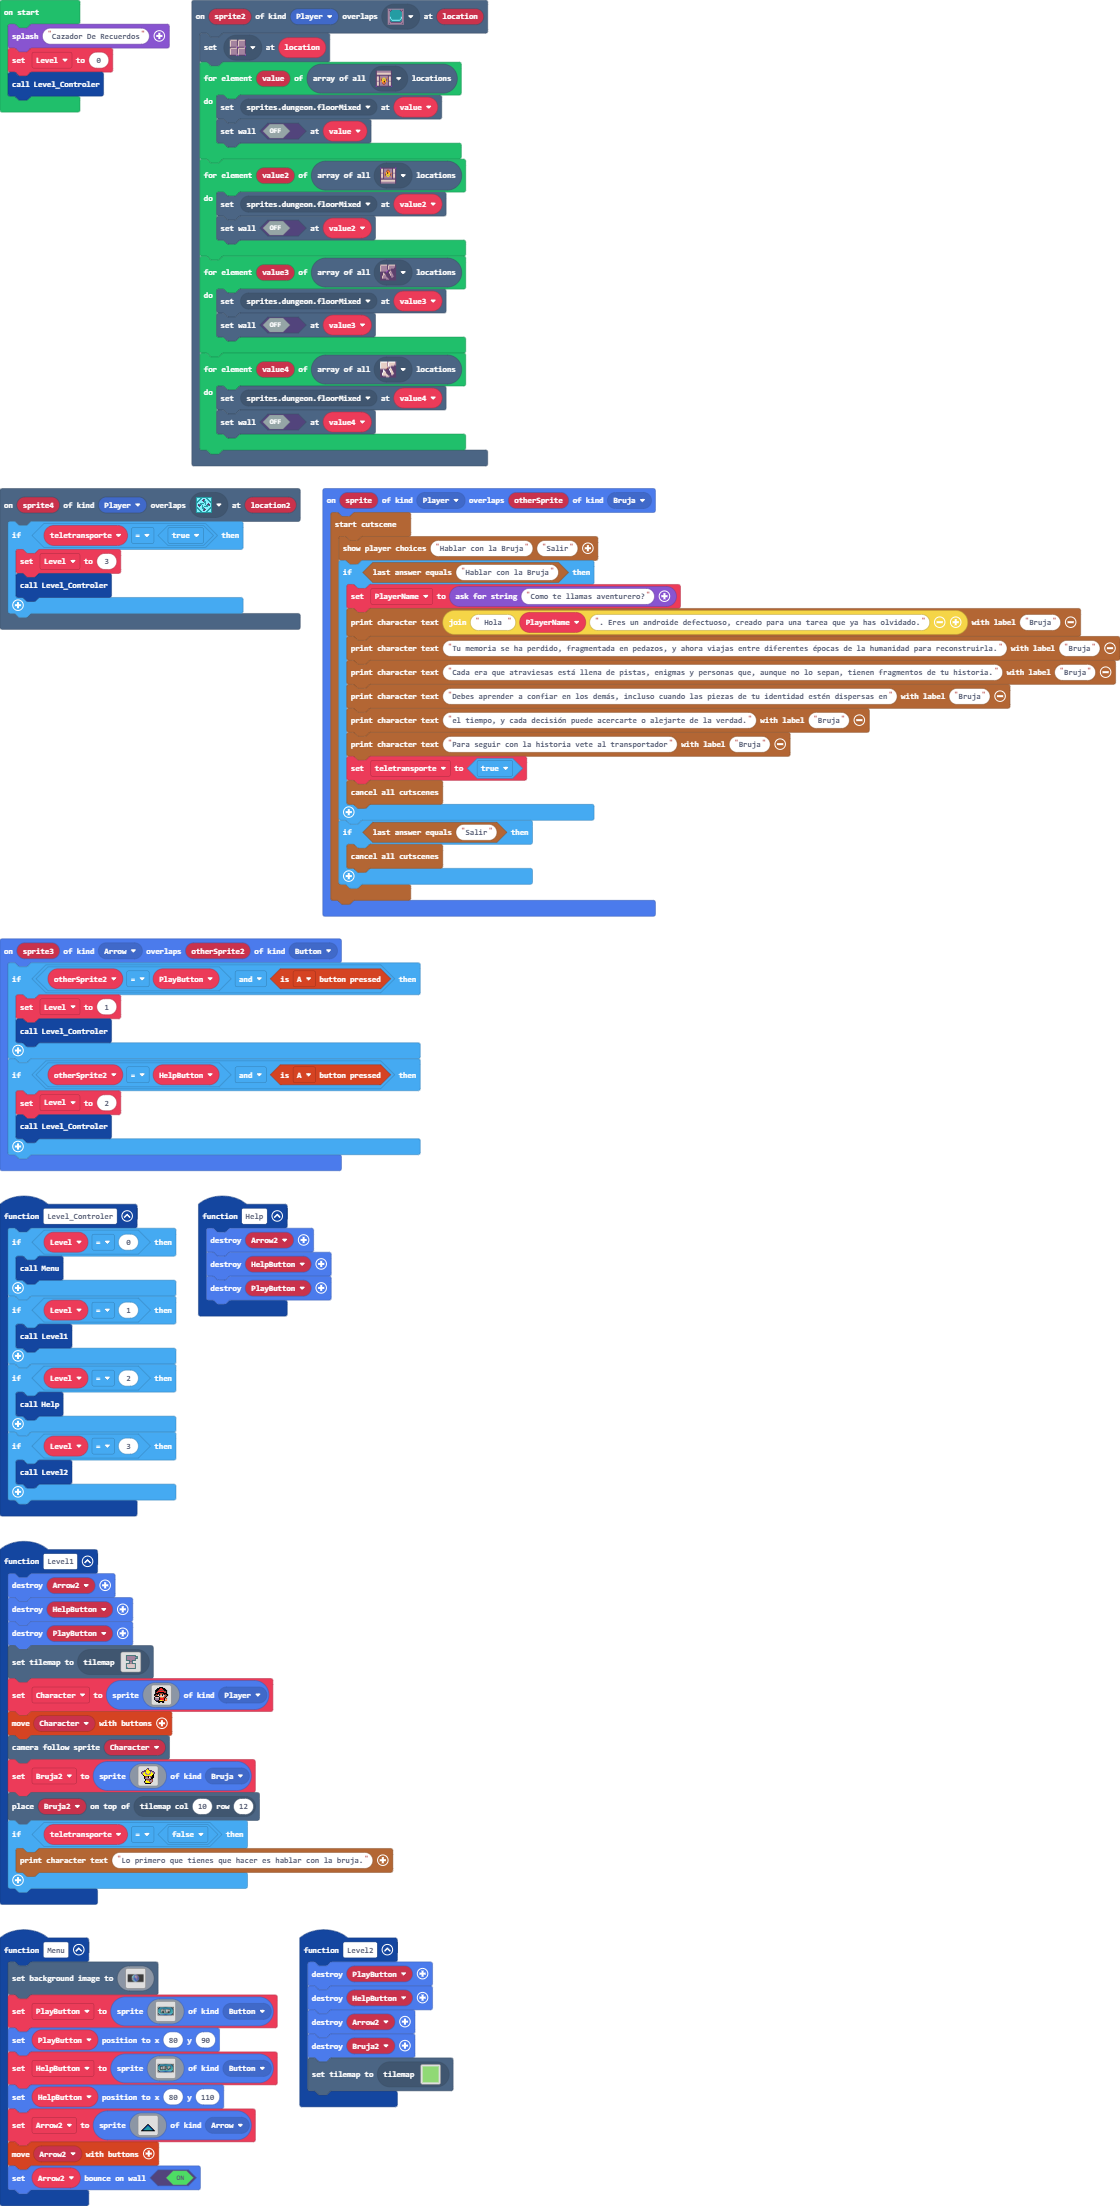
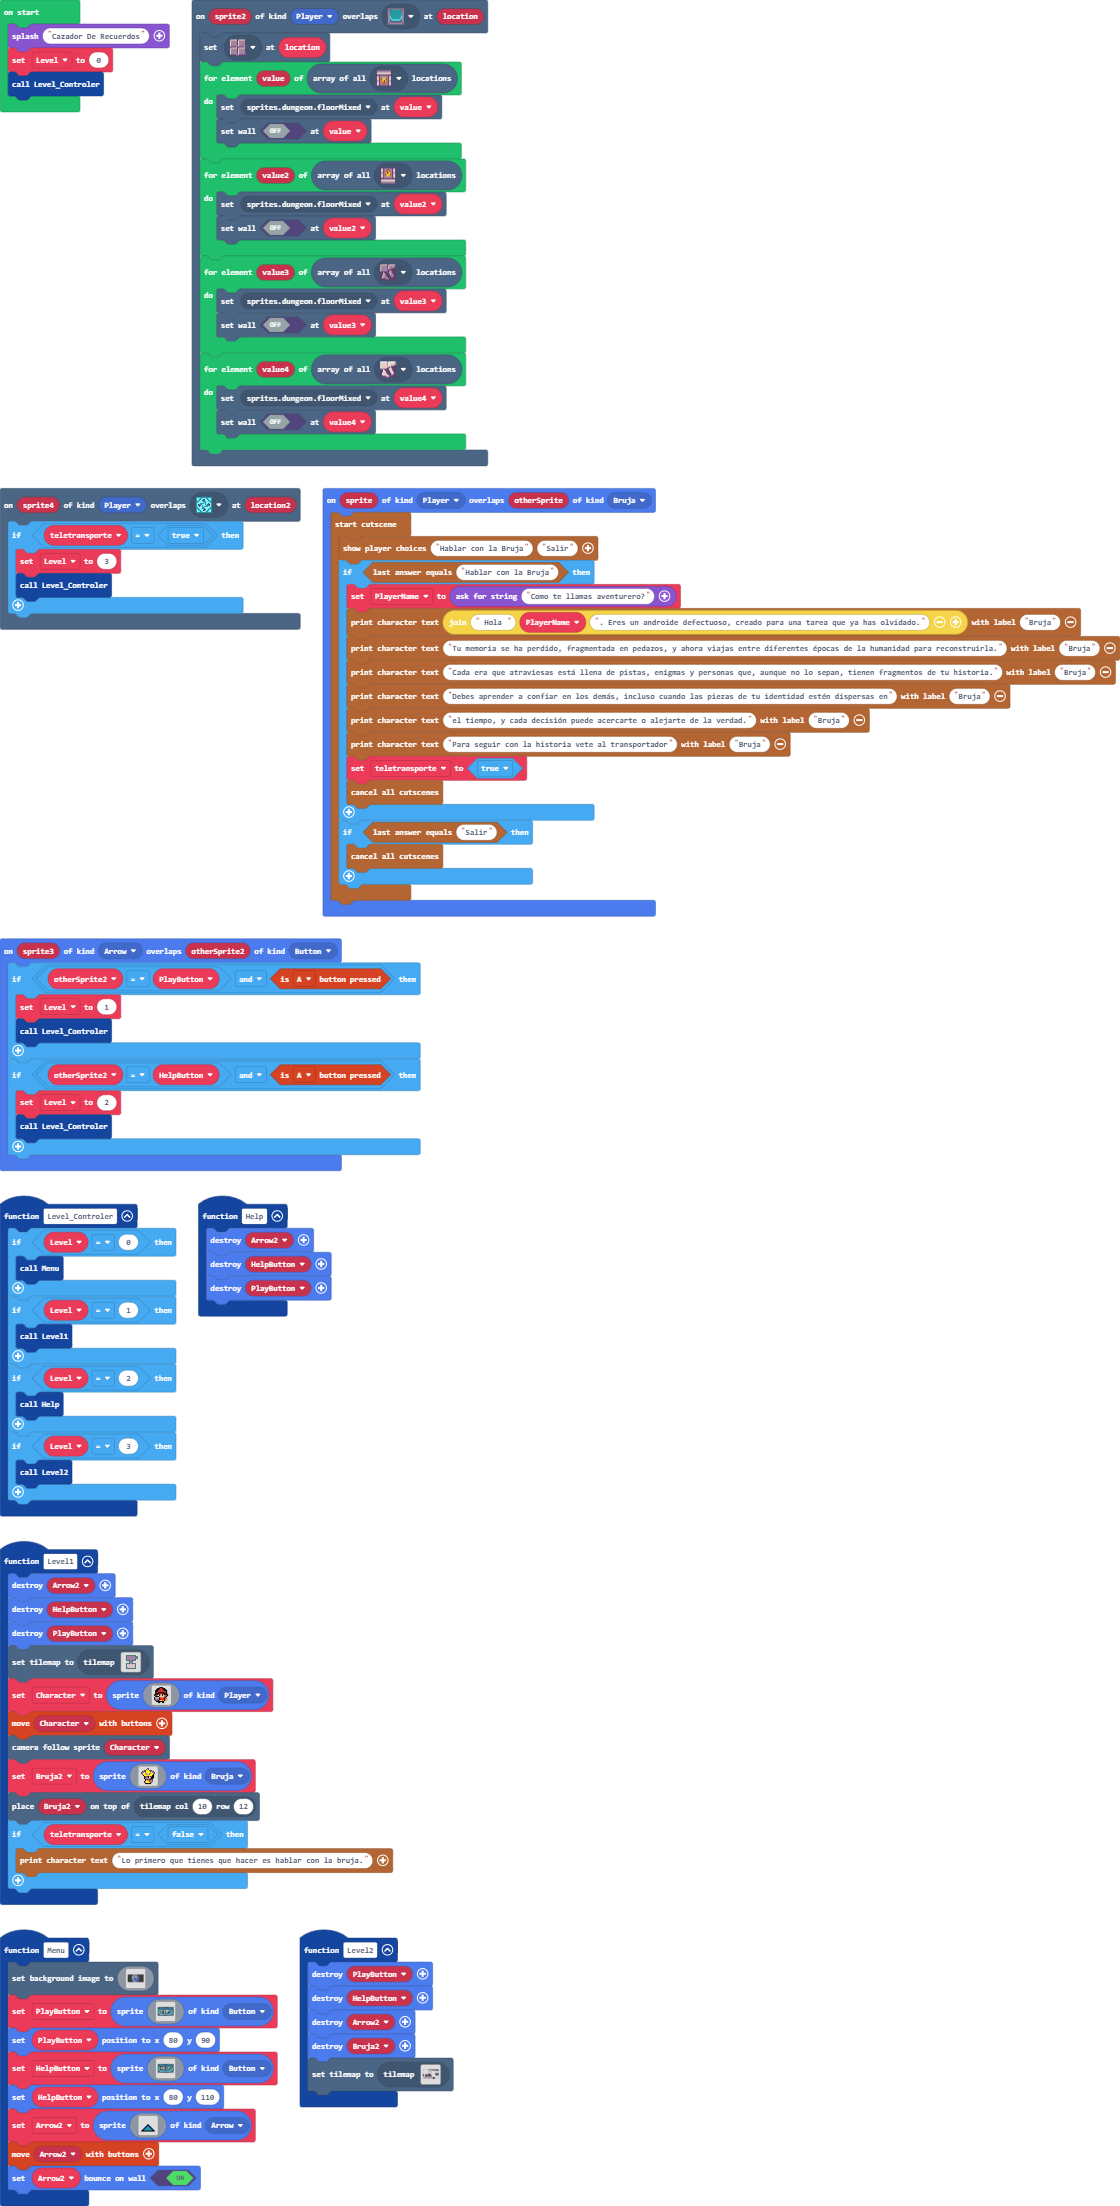
Commit

Changed region(s): [[0.2812, 0.2774, 0.3125, 0.4007], [0.375, 0.9248, 0.4062, 0.9556]]

diff --git a/tilemap.g.ts b/tilemap.g.ts
@@ -234,6 +234,44 @@ namespace myTiles {
 . . . . . . . . . . . . . . . . 
 . . . . . . . . . . . . . . . . 
 `, [myTiles.transparency16], TileScale.Sixteen);
+            case "level5":
+            case "level5":return tiles.createTilemap(hex`1000100000000000000000000000000000000000000000000000000000000000000000000000000000000000000000000000000000000000000000000000000000000000000000000000000000000000000000000000000000000000000000000000000000000000000000000000000000000000000000000000000000000000000000000000000000000000000000000000000000000000000000000000000000000000000000000000000000000000000000000000000000000000000000000000000000000000000000000000000000000000000000000000000000000000000000000000000000000000000000000000000000000000000000000000000000000000`, img`
+. . . . . . . . . . . . . . . . 
+. . . . . . . . . . . . . . . . 
+. . . . . . . . . . . . . . . . 
+. . . . . . . . . . . . . . . . 
+. . . . . . . . . . . . . . . . 
+. . . . . . . . . . . . . . . . 
+. . . . . . . . . . . . . . . . 
+. . . . . . . . . . . . . . . . 
+. . . . . . . . . . . . . . . . 
+. . . . . . . . . . . . . . . . 
+. . . . . . . . . . . . . . . . 
+. . . . . . . . . . . . . . . . 
+. . . . . . . . . . . . . . . . 
+. . . . . . . . . . . . . . . . 
+. . . . . . . . . . . . . . . . 
+. . . . . . . . . . . . . . . . 
+`, [myTiles.transparency16], TileScale.Sixteen);
+            case "level6":
+            case "level6":return tiles.createTilemap(hex`1000100000000000000000000000000000000000000000000000000000000000000000000000000000000000000000000000000000000000000000000000000000000000000000000000000000000000000000000000000000000000000000000000000000000000000000000000000000000000000000000000000000000000000000000000000000000000000000000000000000000000000000000000000000000000000000000000000000000000000000000000000000000000000000000000000000000000000000000000000000000000000000000000000000000000000000000000000000000000000000000000000000000000000000000000000000000000`, img`
+. . . . . . . . . . . . . . . . 
+. . . . . . . . . . . . . . . . 
+. . . . . . . . . . . . . . . . 
+. . . . . . . . . . . . . . . . 
+. . . . . . . . . . . . . . . . 
+. . . . . . . . . . . . . . . . 
+. . . . . . . . . . . . . . . . 
+. . . . . . . . . . . . . . . . 
+. . . . . . . . . . . . . . . . 
+. . . . . . . . . . . . . . . . 
+. . . . . . . . . . . . . . . . 
+. . . . . . . . . . . . . . . . 
+. . . . . . . . . . . . . . . . 
+. . . . . . . . . . . . . . . . 
+. . . . . . . . . . . . . . . . 
+. . . . . . . . . . . . . . . . 
+`, [myTiles.transparency16], TileScale.Sixteen);
             case "level11":
[1 lines of base64/hex data omitted]
 222222222222222222222222222222222222222222222222222222222222222222

diff --git a/main.ts b/main.ts
@@ -41,7 +41,7 @@ function Level2 () {
     sprites.destroy(HelpButton)
     sprites.destroy(Arrow2)
     sprites.destroy(Bruja2)
-    tiles.setCurrentTilemap(tilemap`level8`)
+    tiles.setCurrentTilemap(tilemap`level11`)
 }
 function Level1 () {
     sprites.destroy(Arrow2)

diff --git a/main.py b/main.py
@@ -30,26 +30,6 @@ def on_on_overlap(sprite, otherSprite):
     
 sprites.on_overlap(SpriteKind.player, SpriteKind.Bruja, on_on_overlap)
 
-def on_overlap_tile(sprite2, location):
-    tiles.set_tile_at(location, sprites.dungeon.floor_dark0)
-    for value in tiles.get_tiles_by_type(sprites.dungeon.door_locked_north):
-        tiles.set_tile_at(value, sprites.dungeon.floor_mixed)
-        tiles.set_wall_at(value, False)
-    for value2 in tiles.get_tiles_by_type(sprites.dungeon.door_locked_south):
-        tiles.set_tile_at(value2, sprites.dungeon.floor_mixed)
-        tiles.set_wall_at(value2, False)
-    for value3 in tiles.get_tiles_by_type(sprites.dungeon.floor_dark3):
-        tiles.set_tile_at(value3, sprites.dungeon.floor_mixed)
-        tiles.set_wall_at(value3, False)
-    for value4 in tiles.get_tiles_by_type(sprites.dungeon.floor_light3):
-        tiles.set_tile_at(value4, sprites.dungeon.floor_mixed)
-        tiles.set_wall_at(value4, False)
-scene.on_overlap_tile(SpriteKind.player,
-    assets.tile("""
-        myTile
-    """),
-    on_overlap_tile)
-
 def Level_Controler():
     if Level == 0:
         Menu()
@@ -128,6 +108,15 @@ def on_on_overlap2(sprite3, otherSprite2):
         Level = 2
         Level_Controler()
 sprites.on_overlap(SpriteKind.Arrow, SpriteKind.Button, on_on_overlap2)
+
+def on_overlap_tile(sprite4, location2):
+    global Level
+    if teletransporte == True:
+        Level = 3
+        Level_Controler()
+scene.on_overlap_tile(SpriteKind.player,
+    sprites.dungeon.collectible_insignia,
+    on_overlap_tile)
 
 def Help():
     sprites.destroy(Arrow2)
@@ -274,13 +263,24 @@ def Menu():
     controller.move_sprite(Arrow2)
     Arrow2.set_bounce_on_wall(True)
 
-def on_overlap_tile2(sprite4, location2):
-    global Level
-    if teletransporte == True:
-        Level = 3
-        Level_Controler()
+def on_overlap_tile2(sprite2, location):
+    tiles.set_tile_at(location, sprites.dungeon.floor_dark0)
+    for value in tiles.get_tiles_by_type(sprites.dungeon.door_locked_north):
+        tiles.set_tile_at(value, sprites.dungeon.floor_mixed)
+        tiles.set_wall_at(value, False)
+    for value2 in tiles.get_tiles_by_type(sprites.dungeon.door_locked_south):
+        tiles.set_tile_at(value2, sprites.dungeon.floor_mixed)
+        tiles.set_wall_at(value2, False)
+    for value3 in tiles.get_tiles_by_type(sprites.dungeon.floor_dark3):
+        tiles.set_tile_at(value3, sprites.dungeon.floor_mixed)
+        tiles.set_wall_at(value3, False)
+    for value4 in tiles.get_tiles_by_type(sprites.dungeon.floor_light3):
+        tiles.set_tile_at(value4, sprites.dungeon.floor_mixed)
+        tiles.set_wall_at(value4, False)
 scene.on_overlap_tile(SpriteKind.player,
-    sprites.dungeon.collectible_insignia,
+    assets.tile("""
+        myTile
+    """),
     on_overlap_tile2)
 
 Character: Sprite = None
